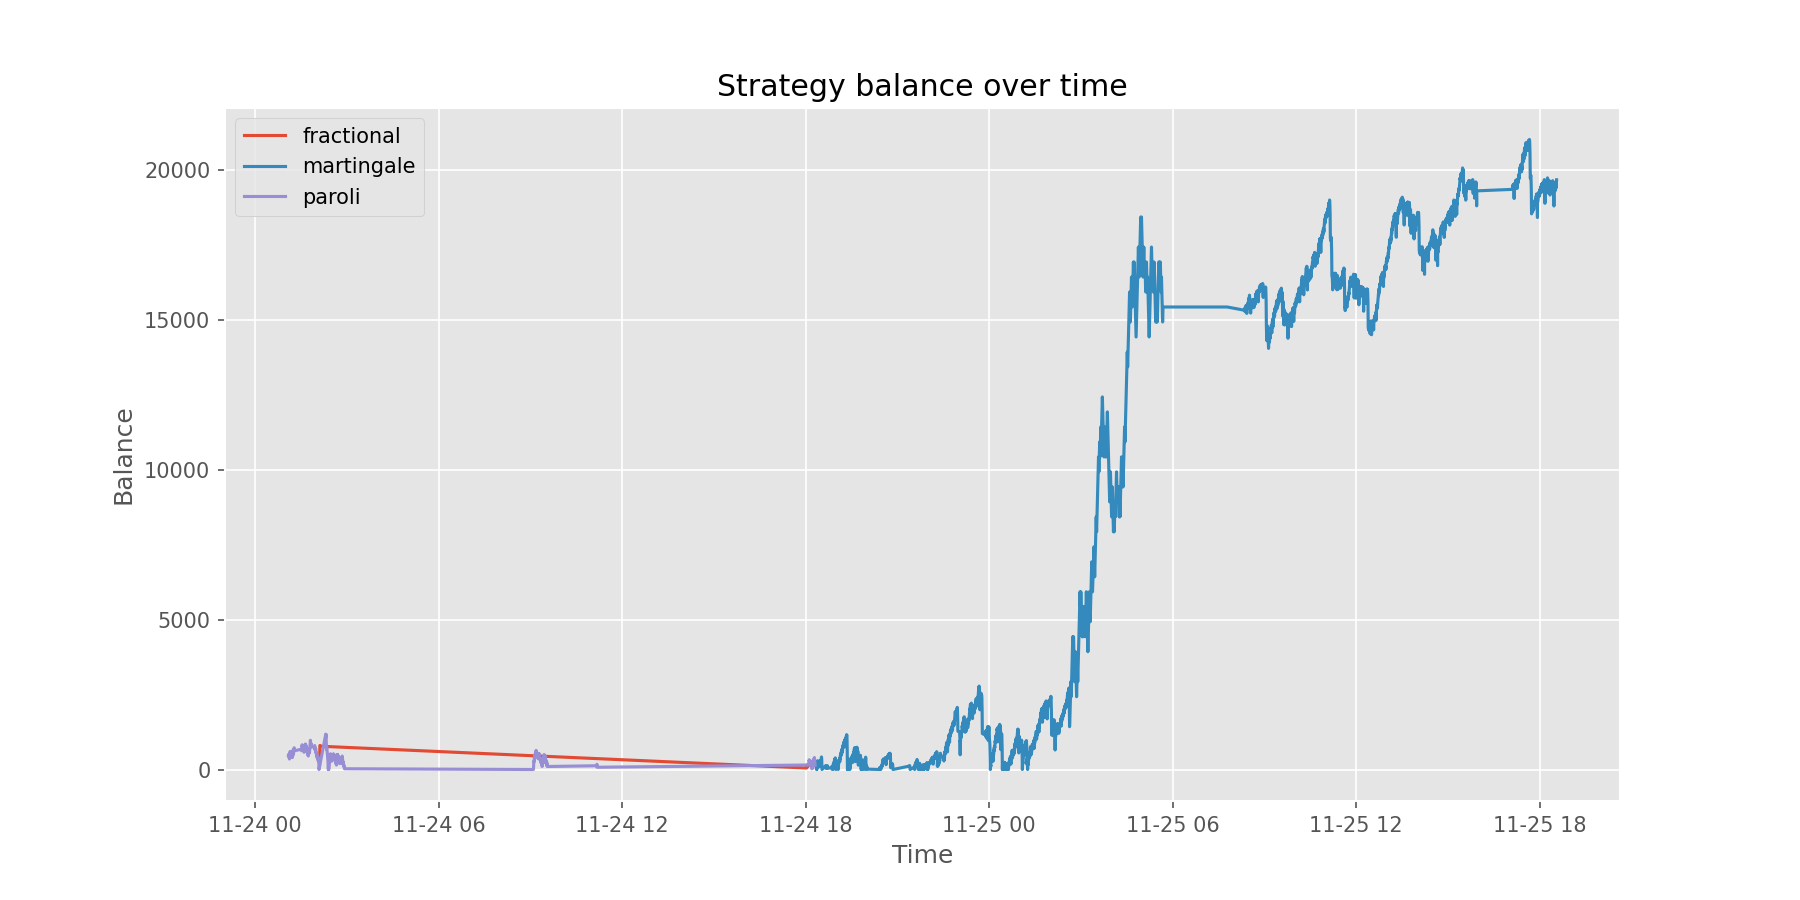
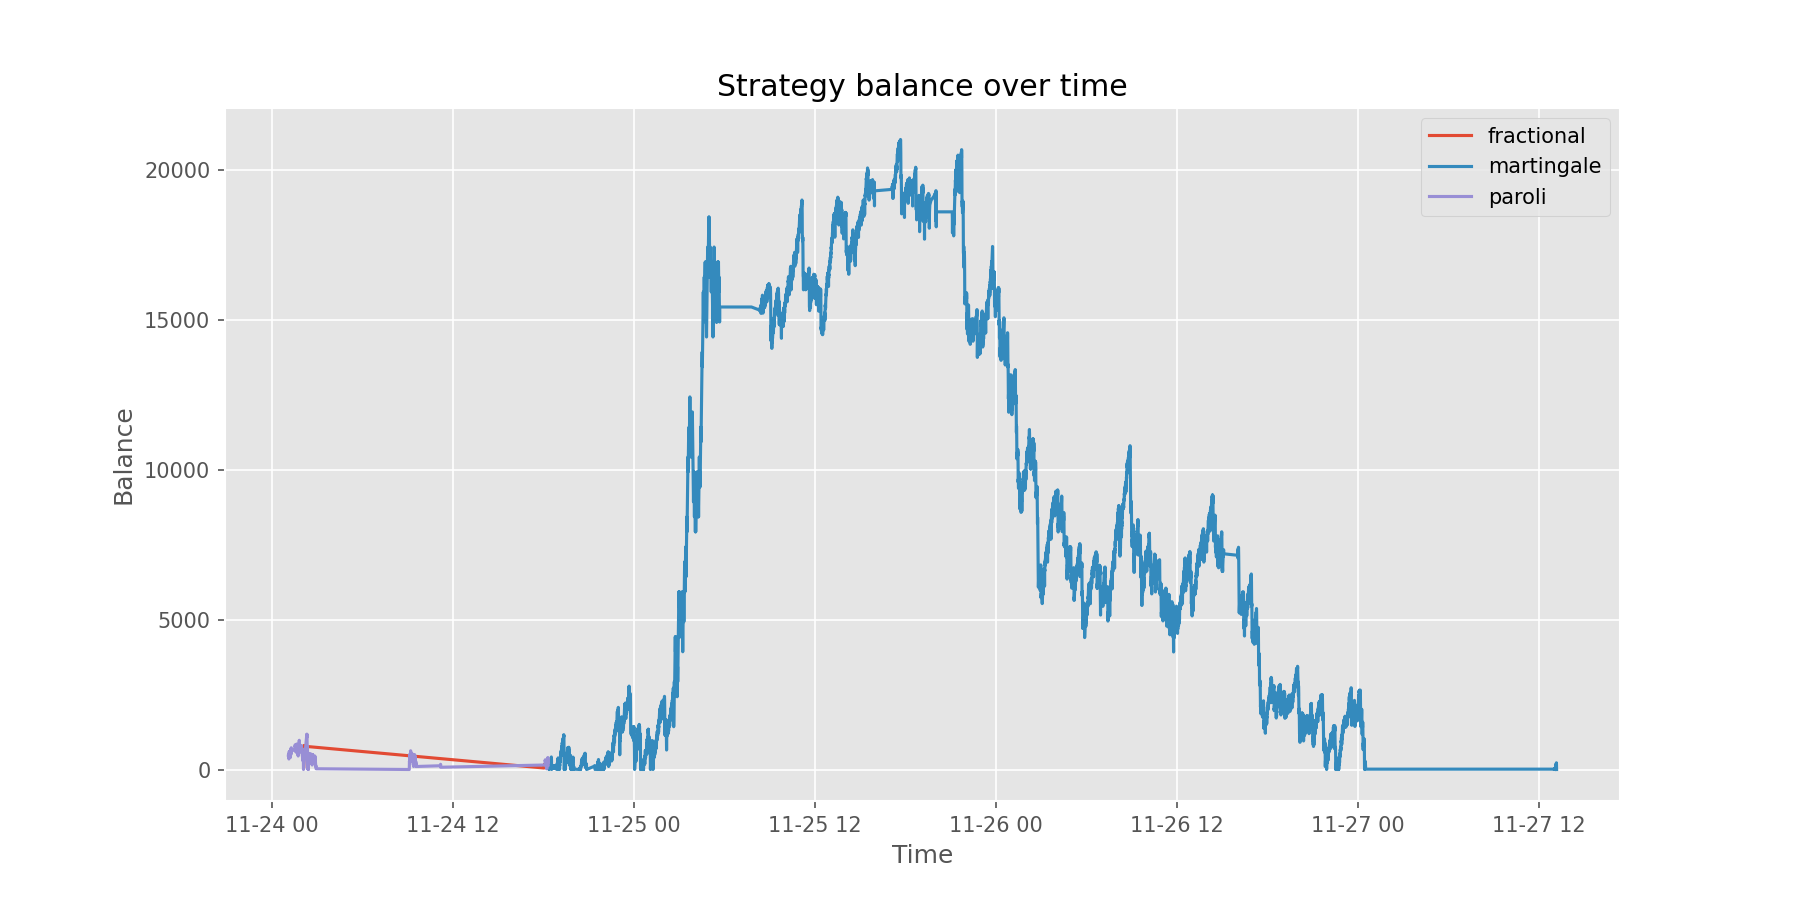
tickets farming; readme intro section

diff --git a/farm_hilo.py b/farm_hilo.py
@@ -1,8 +1,10 @@
 from os import path, environ, makedirs
 from time import sleep
+from datetime import datetime
 from playwright.sync_api import sync_playwright
-from logger import FileLogger
+from logger import FileLogger, get_latest_tickets_iso_date
 from config import EnvConfig
+from farm_ticktes import collect_tickets_routine
 
 free_coins_btn = ".valve-btn"
 hilo_value_input = ".app_input"
@@ -46,25 +48,32 @@ def get_countdown_timer(page):
     
 def collect_rewards(page):
     page.goto("https://csgofast.com/free-coins")
-    page.wait_for_timeout(1000)
+    page.wait_for_timeout(2500)
     free_coins = page.wait_for_selector(free_coins_btn)
     free_coins.click()
 
     # log that we attempted to collect free coins
     logger.log_event("collect_rewards", details=f"clicked free coins; balance={get_current_money(page)}")
 
-def play_hilo(page):
+def load_hilo_page(page):
     page.goto("https://csgofast.com/free-coins/hilo")
     page.wait_for_selector(hilo_value_input)
+
+def play_hilo(page):
+    load_hilo_page(page)
     hilo_input = page.query_selector(hilo_value_input)
     current_money = get_current_money(page)
     last_money = current_money
     current_bet = default_bet_amount if current_money > default_bet_amount else current_money
-
-    # Strategy is created from configuration (see config.EnvConfig)
-    # `strategy` is available from the module-level config created above.
         
     while current_money > 0:
+        collect_tickets_routine(page)
+        
+        if page.url != "https://csgofast.com/free-coins/hilo":
+            load_hilo_page(page)
+            hilo_input = page.query_selector(hilo_value_input)
+            page.wait_for_timeout(1000)
+         
         page.wait_for_selector(countdown_timer_span)
         # place the current bet
         placed_bet = current_bet
@@ -107,7 +116,11 @@ def play_hilo(page):
 
         # ask the chosen strategy for the next bet
         next_bet = strategy.record_result(result, placed_bet, current_money)
-
+        
+        # Don't try to repeatedly bet 500 if the max iterations are reached
+        if next_bet > 500:
+            next_bet = default_bet_amount
+        
         # log the resolved bet (log the bet we placed, not the next bet)
         logger.log_bet(placed_bet, result, balance_before=last_money, balance_after=current_money)
 
@@ -130,7 +143,6 @@ with sync_playwright() as p:
     page.wait_for_url("https://csgofast.com/free-coins")
     
     while True:
-        # Login and go to the free coins page
         collect_rewards(page)
         play_hilo(page)
         page.wait_for_timeout(1000)

diff --git a/farm_ticktes.py b/farm_ticktes.py
@@ -1,0 +1,30 @@
+import os
+from datetime import datetime
+from logger import FileLogger, get_latest_tickets_iso_date
+
+collect_tickets_btn = '.get-pieces-btn'
+file_path = os.path.join(os.path.dirname(os.path.abspath(__file__)), "logs", "farm_tickets_logs.csv")
+
+
+def collect_tickets(page):
+    page.goto("https://csgofast.com/tickets")
+    page.wait_for_timeout(1000)
+    try:
+        page.wait_for_selector(collect_tickets_btn)
+        collect_btn = page.query_selector(collect_tickets_btn)
+        if collect_btn and ':' not in collect_btn.inner_text():
+            print(f"Clicking collect tickets button!")
+            collect_btn.click()
+            logger = FileLogger(file_path)
+            logger.log_event("logs/collect_tickets", details="clicked collect tickets button")
+    except Exception as e:
+        print(f"Error clicking collect tickets button: {e}")
+        
+def collect_tickets_routine(page):
+    last_tickets_iso_date = get_latest_tickets_iso_date()
+
+    if last_tickets_iso_date is None or (datetime.now() - datetime.fromisoformat(last_tickets_iso_date)).total_seconds() > 3600:
+        collect_tickets(page)
+        return True
+    return False
+    

diff --git a/logger.py b/logger.py
@@ -63,7 +63,7 @@ class FileLogger:
 
     def log_event(self, event_type: str, details: str = "", timestamp: str = None):
         if timestamp is None:
-            timestamp = datetime.utcnow().isoformat()
+            timestamp = datetime.now().isoformat()
         row = {
             "timestamp": timestamp,
             "type": event_type,
@@ -75,5 +75,18 @@ class FileLogger:
         }
         self._write_row(row)
 
+def get_latest_tickets_iso_date() -> str:
+    """Return the timestamp of the latest tickets log entry.
 
-__all__ = ["FileLogger"]
+    Returns None if no tickets log exists.
+    """
+    file_path = os.path.join(os.path.dirname(os.path.abspath(__file__)), "logs", "farm_tickets_logs.csv")
+    if not os.path.exists(file_path) or os.path.getsize(file_path) == 0:
+        return None
+
+    with open(file_path, "r", encoding="utf-8") as fh:
+        last_line = fh.readlines()[-1]
+        row = dict(zip(FileLogger.DEFAULT_FIELDS, last_line.strip().split(",")))
+        return row["timestamp"]
+
+__all__ = ["FileLogger", "get_latest_tickets_iso_date"]

diff --git a/plot_strategies.py b/plot_strategies.py
@@ -119,7 +119,7 @@ def main(argv: List[str] | None = None) -> int:
         return 2
 
     out_path = Path(args.out)
-    plot_traces(files, out_path, show=args.show)
+    plot_traces(files, out_path, show=True)
     return 0
 
 

diff --git a/README.md b/README.md
@@ -1,4 +1,14 @@
 # CSGOFast bot
+This is a pyton3 + playwright bot to farm the CSGOFast free coins / tickets.
+The game conditions are:
+- Every time the balance is 0, you can claim 100 free coins;
+- HiLo max bet is 500 coins;
+- you've a 47.5% chance to double per bet;
+- 1.000.000 coins is 1$
+
+With that said, even with a strategy, the odds are incredibly against you. Here's the plot of my balance over a few days (mostly using the Martingale strategy with 1.6x multiplier and 47.68 base bet):
+
+<img src="./stats.png" alt="Balance over time" width="600"/>
 
 ## Instalation
 - Install Playwright:
